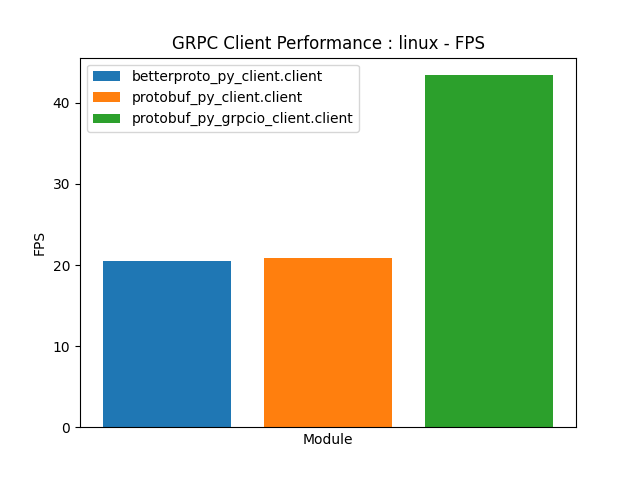
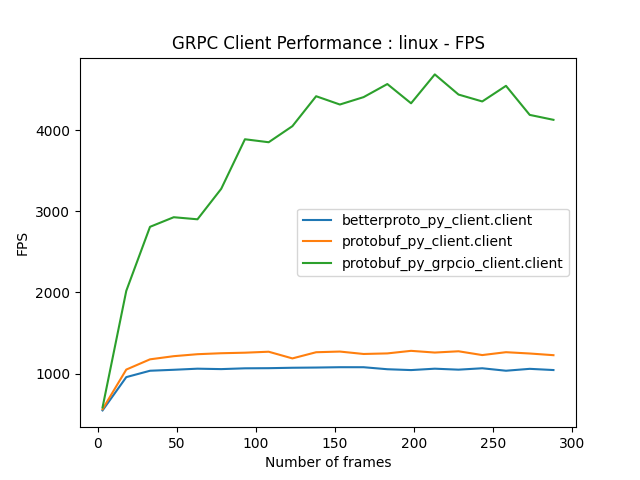
properly graph fps

diff --git a/grpc_python_profile.py b/grpc_python_profile.py
@@ -63,11 +63,13 @@ def to_dataframe(profiles: GrpcOperationProfile):
     return frame
 
 
-def execute_profiles(seed, profiles, num_trials):
-    random.seed(seed)
+def execute_profiles(profiles, num_trials):
     run_profiles(profiles, num_trials)
     df = to_dataframe(profiles)
+    return df
 
+
+def plot_profiles(df, seed : int):
     # Plotting time as a function of argument size
     _, ax = plt.subplots()
     plt.title(f"GRPC Client Performance : {sys.platform}")
@@ -81,24 +83,32 @@ def execute_profiles(seed, profiles, num_trials):
     ax.legend()
 
     plt.savefig(f"_profiles/grpc_python_profile-{seed}.png")
+    plt.close()
 
+
+def plot_fps(df, seed : int):
     # Plotting fps
     _, ax = plt.subplots()
     plt.title(f"GRPC Client Performance : {sys.platform} - FPS")
-    ax.set_xlabel("Module")
+    ax.set_xlabel("Number of frames")
     ax.set_ylabel("FPS")
 
-    grouped = df.groupby(["module"])
-    for i, (name, group) in enumerate(grouped):
-        means = group.groupby("arg_size")["time"].mean()
-        fps = 1 / (means / 10**6)
-        ax.bar(i, fps.mean(), label=name)
+    grouped = df.groupby("module")
+    for name, group in grouped:
+        time_for_frames = group.groupby("arg_size")["time"].mean()
 
-    # hide the x-axis ticks
-    ax.set_xticks([])
+        frames = []
+        fps_values = []
+        for num_frames, time in time_for_frames.items():
+            seconds = time / 10**6
+            fps_values.append(num_frames / seconds)
+            frames.append(num_frames)     
+
+        ax.plot(frames, fps_values, label=name)
 
     ax.legend()
-    plt.savefig(f"_profiles/grpc_python_profile-fps-{seed}.png")
+    plt.savefig(f"_profiles/grpc_python_profile_fps-{seed}.png")
+    plt.close()
 
 
 
@@ -139,6 +149,7 @@ def unary_stream_profiles(stream_image_names: list[list[str]]):
 if __name__ == "__main__":
     
     seed = 46
+    random.seed(seed)
 
     #unary_profiles = unary_unary_profiles()
 
@@ -149,6 +160,8 @@ if __name__ == "__main__":
 
     stream_profiles = unary_stream_profiles(stream_image_names)
 
-    execute_profiles(seed, stream_profiles, 5)
+    df = execute_profiles(seed, stream_profiles, 20)
 
+    plot_profiles(df, seed)
+    plot_fps(df, seed)
     
